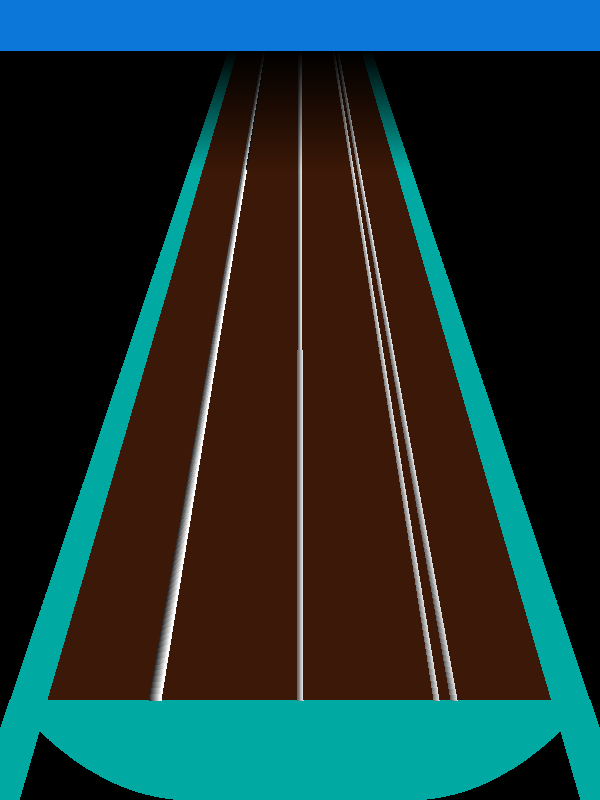
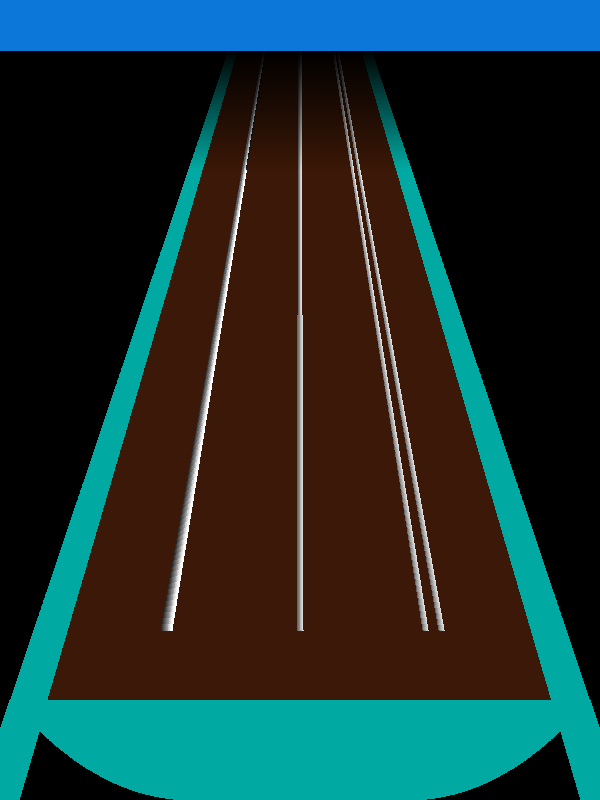
Rewritten projection code

diff --git a/app/src/graphics/background.ts b/app/src/graphics/background.ts
@@ -1,20 +1,38 @@
-/// <reference path="../../lib/phaser.comments.d.ts"/>
+ /// <reference path="../../lib/phaser.comments.d.ts"/>
 
+/**
+ * Handle the background graphics
+ * 
+ * @class Background
+ * @extends {Phaser.Group}
+ */
 class Background extends Phaser.Group {
 
     private progress:Phaser.Image;
+    private currNote:Phaser.Image[];
+    private currNoteText:Phaser.BitmapText[];
     private maxWidth:number;
     private static width:number;
     private static height:number;
     
+    /**
+     * Create background.
+     * 
+     * @param {Phaser.Game} game 
+     * @param {string} title 
+     * @memberof Background
+     */
     constructor(game:Phaser.Game,title:string) {
         super(game);
+        // Background image
         Background.width = game.width;Background.height = game.height;
         var bgr:Phaser.Image = this.game.add.image(0,0,"sprites","frame",this);
         bgr.width = this.game.width;
         bgr.height= this.game.height;
+        // Title
         var name:Phaser.BitmapText = this.game.add.bitmapText(this.game.width/4,9,"font",title,32,this);
         name.anchor.x = 0.5;name.tint = 0x063B6c;
+        // Progress bar
         var subBar:Phaser.Image = this.game.add.image(this.game.width/2,25,"sprites","rectangle",this);
         subBar.height = 40;subBar.width = this.game.width/2 - 10;
         subBar.anchor.y = 0.5;subBar.tint = 0x063B6c;
@@ -22,35 +40,127 @@ class Background extends Phaser.Group {
         this.progress.height = 36;this.maxWidth = subBar.width-4;
         this.progress.width = this.maxWidth / 2;
         this.progress.anchor.y = 0.5;this.progress.tint = 0x0D76D9;
-        this.test();
+        // Current note boxes.
+        this.currNote = [];
+        this.currNoteText = [];
+        for (var s:number = 0;s < 3;s++) {
+            var img:Phaser.Image = this.game.add.sprite(0,0,"sprites","roundrect",this);
+            img.y = 700;img.x = Background.x(s,img.y);
+            img.width = 1.04*Background.size(img.y);img.height = 70;
+            img.alpha = 0.5;
+            img.anchor.x = 0.5;img.anchor.y = 1.0;img.tint = 0x00FFFF;
+            this.currNote[s] = img;
+            var txt:Phaser.BitmapText = this.game.add.bitmapText(0,0,"font","0",img.height*0.7,this);
+            txt.y = img.y - img.height * 0.45;txt.x = Background.x(s,txt.y);
+            txt.anchor.x = txt.anchor.y = 0.5;txt.tint = 0xFFFFFF;
+            txt.rotation = (1-s)*0.1;txt.alpha = img.alpha;
+            this.currNoteText[s] = txt;
+        }
+        // Test 2 draws lines at intervals, test 1 shows spheres.
+        this.test2();
+        //this.test();
     }
 
+    /**
+     * Destroy background
+     * 
+     * @memberof Background
+     */
+    destroy(): void {
+        super.destroy();
+        this.progress = null;this.currNote = this.currNoteText = null;
+    }
+
+    public setStringBoxText(str:number,txt:string) {
+        this.currNoteText[str].text = txt;
+    }
+    /**
+     * Set percentage completed.
+     * 
+     * @param {number} percent 
+     * @memberof Background
+     */
     public setProgress(percent:number) {
+        percent = Math.min(100,percent);
+        percent = Math.max(0,percent);
         this.progress.width = this.maxWidth * percent / 100;
     }
 
+    /**
+     * Ball drawing projection test
+     * 
+     * @private
+     * @memberof Background
+     */
     private test(): void {
         for (var s = 0;s < 3;s++) {
             for (var y = 0;y <= 1000;y = y + 100) {
                 var img:Phaser.Image = this.game.add.image(0,0,"sprites",(y == 0) ? "spyellow":"spred",this);
-                img.x = Background.x(s,y);
-                img.y = Background.y(s,y);
+                img.y = Background.y(y);
+                img.x = Background.x(s,img.y);
                 img.anchor.x = 0.5;
                 img.anchor.y = 1;
-                img.width = img.height = Background.size(y);
+                img.width = img.height = Background.size(img.y)*0.6;
             }
         }
     }
 
-    public static x(str:number,y:number):number {
-        return (str - 1) * Background.width * (0.24-y*0.000175) + Background.width / 2;
+    /**
+     * Line drawing test.
+     * 
+     * @private
+     * @memberof Background
+     */
+    private test2(): void {
+        for (var s:number = 0;s <= 10;s+=2) {
+            var y:number = Background.y(s * 100);
+            var img:Phaser.Image = this.game.add.image(this.game.width/2,y,"sprites","rectangle",this);
+            img.width = Background.size(y)*3.5;img.height = 4;img.anchor.x = 0.5;img.anchor.y = 0.5;
+            img.tint = (s == 0) ? 0xFFFF00:0xFF8000;
+            if (s == 10) img.tint = 0x00FF00;
+        }
     }
 
-    public static y(str:number,y:number):number {
-        return 700-620*y/1000;
+    /**
+     * Convert a y up the fretboard to a pixel Y
+     * 
+     * @static
+     * @param {number} y up the fretboard, 0-100.
+     * @returns {number} 
+     * @memberof Background
+     */
+    public static y(y:number):number {
+        var camera:number = 500;
+        y = Background.height-100-
+            (1-camera/(y+camera))*(Background.height-200)*1.5;
+        return y;
     }
 
-    public static size(y:number):number {
-        return (Background.x(1,y)-Background.x(0,y)) * 0.7;
+    /**
+     * Get the string centre position for a given pixel position
+     * 
+     * @static
+     * @param {number} str string number 0-2
+     * @param {number} yPixel pixel position vertically
+     * @returns {number} x pixel position.
+     * @memberof Background
+     */
+    public static x(str:number,yPixel:number):number {
+        yPixel = Background.height-100-yPixel;
+        var x:number = (str + 1) / 4*Background.width - Background.width/2;
+        x = x * (1 - yPixel * 0.0012);
+        return Background.width / 2 + x;
+    }
+
+    /**
+     * Get the size scalar - distance between strings
+     * 
+     * @static
+     * @param {number} yPixel pixel position vertically.
+     * @returns {number} 
+     * @memberof Background
+     */
+    public static size(yPixel:number):number {
+        return Background.x(2,yPixel)-Background.x(1,yPixel);
     }
 }

diff --git a/app/build/game.js b/app/build/game.js
@@ -50,32 +50,83 @@ var Background = (function (_super) {
         _this.progress.width = _this.maxWidth / 2;
         _this.progress.anchor.y = 0.5;
         _this.progress.tint = 0x0D76D9;
-        _this.test();
+        _this.currNote = [];
+        _this.currNoteText = [];
+        for (var s = 0; s < 3; s++) {
+            var img = _this.game.add.sprite(0, 0, "sprites", "roundrect", _this);
+            img.y = 700;
+            img.x = Background.x(s, img.y);
+            img.width = 1.04 * Background.size(img.y);
+            img.height = 70;
+            img.alpha = 0.5;
+            img.anchor.x = 0.5;
+            img.anchor.y = 1.0;
+            img.tint = 0x00FFFF;
+            _this.currNote[s] = img;
+            var txt = _this.game.add.bitmapText(0, 0, "font", "0", img.height * 0.7, _this);
+            txt.y = img.y - img.height * 0.45;
+            txt.x = Background.x(s, txt.y);
+            txt.anchor.x = txt.anchor.y = 0.5;
+            txt.tint = 0xFFFFFF;
+            txt.rotation = (1 - s) * 0.1;
+            txt.alpha = img.alpha;
+            _this.currNoteText[s] = txt;
+        }
+        _this.test2();
         return _this;
     }
+    Background.prototype.destroy = function () {
+        _super.prototype.destroy.call(this);
+        this.progress = null;
+        this.currNote = this.currNoteText = null;
+    };
+    Background.prototype.setStringBoxText = function (str, txt) {
+        this.currNoteText[str].text = txt;
+    };
     Background.prototype.setProgress = function (percent) {
+        percent = Math.min(100, percent);
+        percent = Math.max(0, percent);
         this.progress.width = this.maxWidth * percent / 100;
     };
     Background.prototype.test = function () {
         for (var s = 0; s < 3; s++) {
             for (var y = 0; y <= 1000; y = y + 100) {
                 var img = this.game.add.image(0, 0, "sprites", (y == 0) ? "spyellow" : "spred", this);
-                img.x = Background.x(s, y);
-                img.y = Background.y(s, y);
+                img.y = Background.y(y);
+                img.x = Background.x(s, img.y);
                 img.anchor.x = 0.5;
                 img.anchor.y = 1;
-                img.width = img.height = Background.size(y);
+                img.width = img.height = Background.size(img.y) * 0.6;
             }
         }
     };
-    Background.x = function (str, y) {
-        return (str - 1) * Background.width * (0.24 - y * 0.000175) + Background.width / 2;
+    Background.prototype.test2 = function () {
+        for (var s = 0; s <= 10; s += 2) {
+            var y = Background.y(s * 100);
+            var img = this.game.add.image(this.game.width / 2, y, "sprites", "rectangle", this);
+            img.width = Background.size(y) * 3.5;
+            img.height = 4;
+            img.anchor.x = 0.5;
+            img.anchor.y = 0.5;
+            img.tint = (s == 0) ? 0xFFFF00 : 0xFF8000;
+            if (s == 10)
+                img.tint = 0x00FF00;
+        }
     };
-    Background.y = function (str, y) {
-        return 700 - 620 * y / 1000;
+    Background.y = function (y) {
+        var camera = 500;
+        y = Background.height - 100 -
+            (1 - camera / (y + camera)) * (Background.height - 200) * 1.5;
+        return y;
     };
-    Background.size = function (y) {
-        return (Background.x(1, y) - Background.x(0, y)) * 0.7;
+    Background.x = function (str, yPixel) {
+        yPixel = Background.height - 100 - yPixel;
+        var x = (str + 1) / 4 * Background.width - Background.width / 2;
+        x = x * (1 - yPixel * 0.0012);
+        return Background.width / 2 + x;
+    };
+    Background.size = function (yPixel) {
+        return Background.x(2, yPixel) - Background.x(1, yPixel);
     };
     return Background;
 }(Phaser.Group));
@@ -124,7 +175,6 @@ var Music = (function () {
             var b = _a[_i];
             this.bars.push(new Bar(b, this, this.bars.length));
         }
-        console.log(this.toString());
     }
     Music.prototype.getDefaultTempo = function () {
         return this.tempo;

diff --git a/app/src/music/music.ts b/app/src/music/music.ts
@@ -20,7 +20,7 @@ class Music implements IMusic {
         for (var b of music.bars) {
             this.bars.push(new Bar(b,this,this.bars.length));
         }
-        console.log(this.toString());
+        //console.log(this.toString());
     }
 
     getDefaultTempo(): number {

diff --git a/graphics/makeframe2.py b/graphics/makeframe2.py
@@ -5,7 +5,7 @@ from PIL import Image,ImageDraw
 import math
 
 def endx(x,y):
-	return int((x-300)*0.9*(y/800+0.2)+300+0.5)
+	return int((x-600)*0.9*(y/800+0.17)+600+0.5)
 
 def line(x1,y1,x2,y2,colour):
 	n = 0
@@ -30,30 +30,27 @@ backgr = 0xFF000000
 board =  0xFF07183B
 info = 0xFFD9760D
 
-im = Image.new("RGBA",(600,800),backgr)
+im = Image.new("RGBA",(1200,800),backgr)
 draw = ImageDraw.Draw(im)
 edge = 40
 x = 0
-while x < 600:
-	colour = frame if x < edge or x > 600-edge else board
+while x < 1200:
+	colour = frame if x < edge or x > 1200-edge else board
 	y = 800 if colour == frame else 700
 	line(endx(x,0),0,endx(x,y),int(y),colour)
-	xo = x if (x < 300) else 600-x
-	y2 = 800 if xo > 200 else 700+math.sin(xo/200*math.pi/2)*100
+	xo = x if (x < 600) else 1200-x
+	y2 = 800 if xo > 400 else 700+math.sin(xo/400*math.pi/2)*100
 	line(endx(x,y),int(y),endx(x,y2),y2,frame)
 	x = x + 0.5
 
-for sid in range(1,5):
-	sx = int((3 if sid > 2 else sid) * 600 / 4)
-	sw = 3 if sid > 1 else 6
-	if sid >= 3:
-		sx = sx + (sw if sid == 3 else -sw)*3
-
+for sid in range(1,11):
+	sw = 3
+	sx = 1200 * sid / 11
 	for x in range(-sw,sw+1):
 		sc = 160 + x * 20
-		line(endx(x+sx,630),630,endx(x+sx,0),0,sc+sc*256+sc*65536+0xFF000000)
+		line(endx(x+sx,700),700,endx(x+sx,0),0,sc+sc*256+sc*65536+0xFF000000)
 
-draw.rectangle((0,0,600,50),fill=info)
+draw.rectangle((0,0,1200,50),fill=info)
 
 for x in range(50,200):
 	pass
